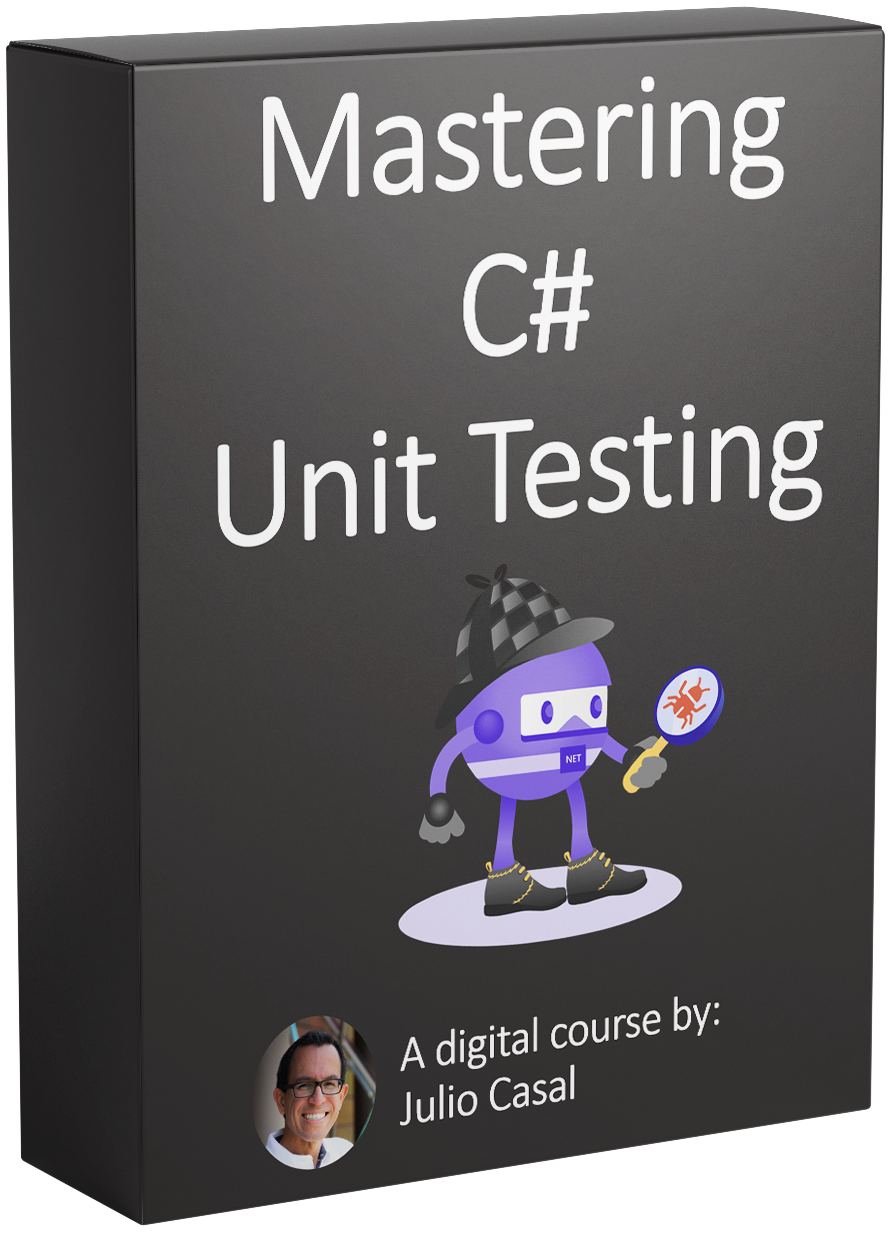
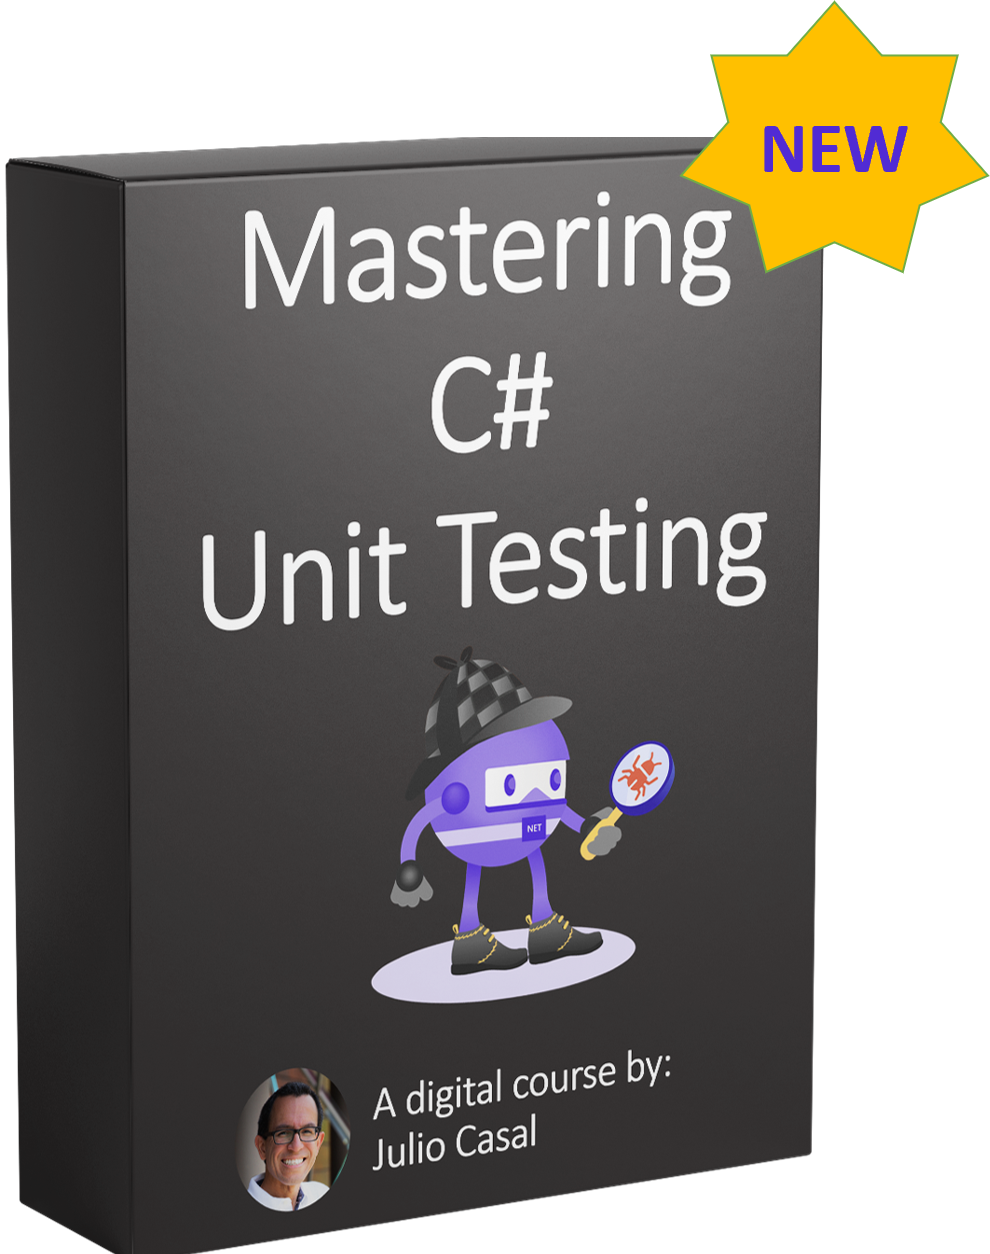
Add the NEW star to unit test courses

diff --git a/courses.html b/courses.html
@@ -147,7 +147,7 @@
                     <div class="card course h-100" style="transition: box-shadow 0.2s ease-in-out;">
                         <div class="card-image mt-2">
                             <img class="img-fluid mx-auto d-block" src="images/unittesting-advanced-box.png"
-                                width="50%" alt="alternative">
+                                width="52%" alt="alternative">
                         </div>
                         <div class="card-body">
                             <a href="mastering-csharp-unittesting.html" style="text-decoration: none;">
